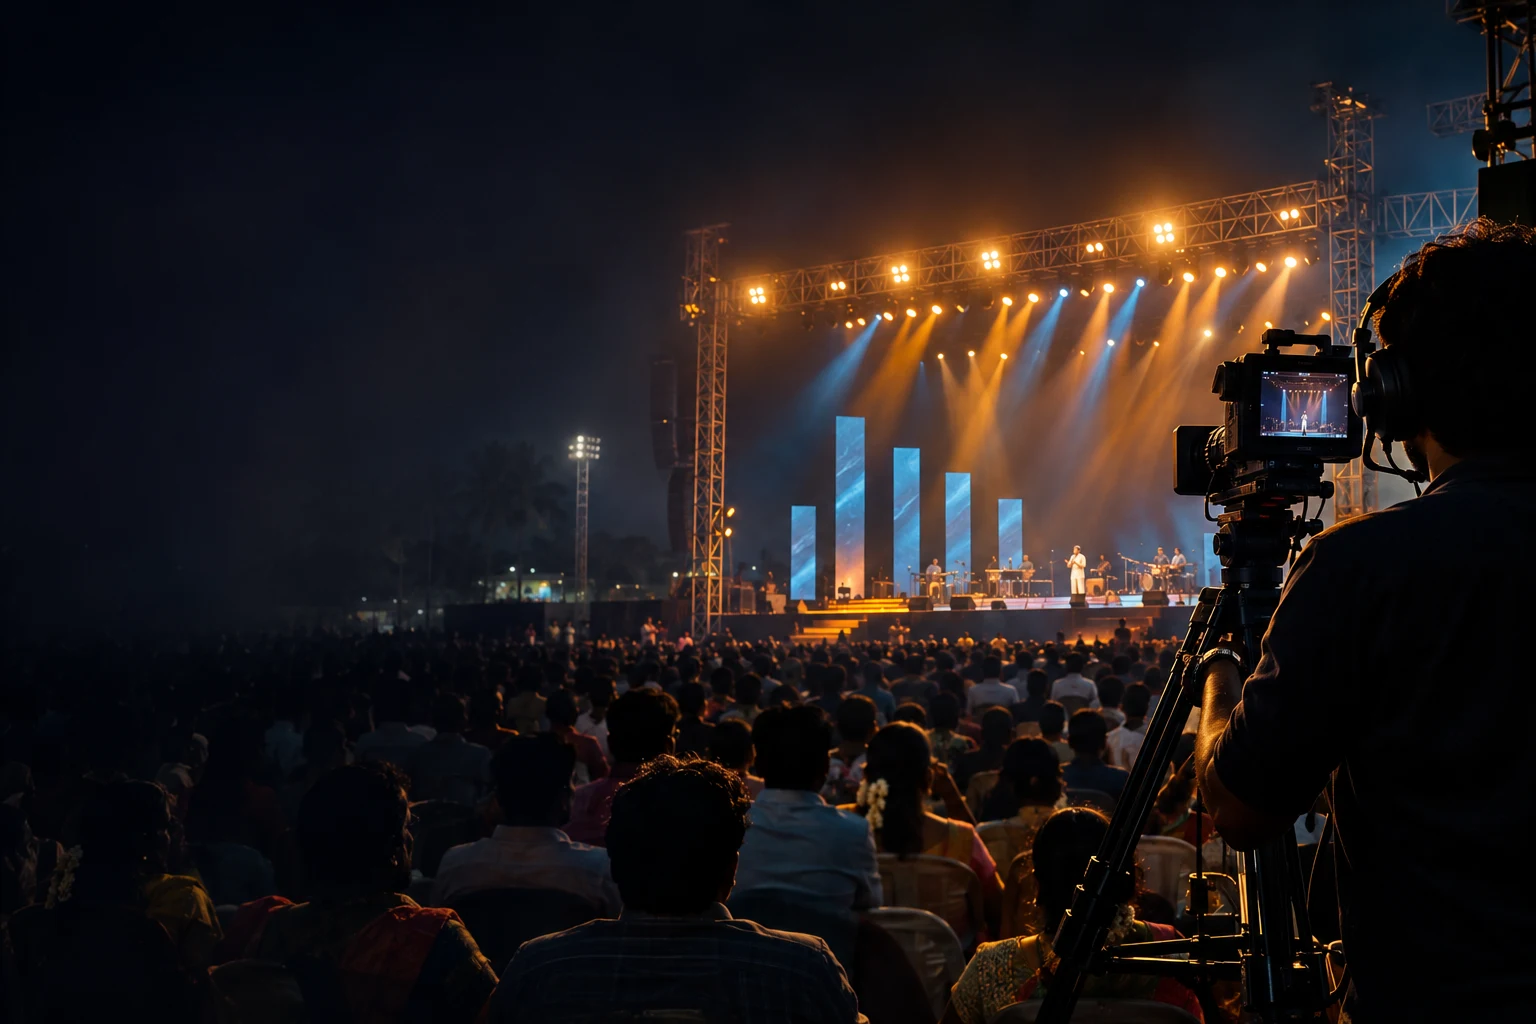
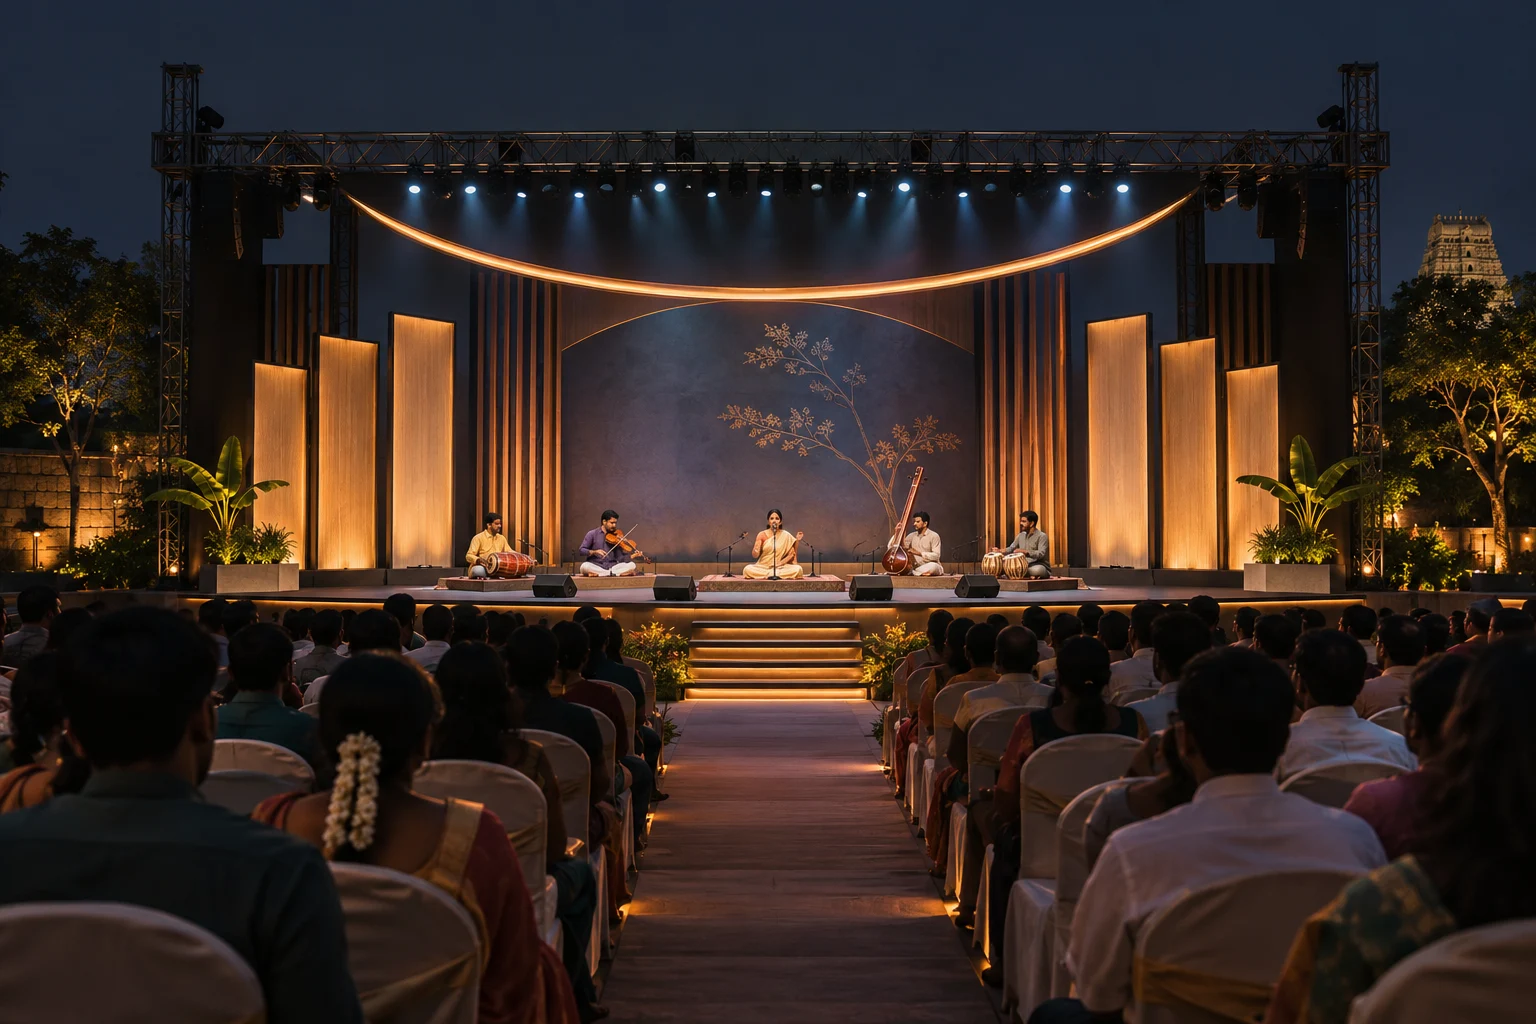
Make homepage redesign visible with a full-width hero

diff --git a/src/styles/hero.css b/src/styles/hero.css
@@ -1,17 +1,16 @@
-.hero { background: var(--surface-muted); border-bottom: 1px solid var(--border); }
-.hero-layout { display: grid; gap: clamp(1.4rem, 3vw, 2.6rem); padding-block: clamp(2rem, 5vw, 4.75rem) 1.15rem; }
-.hero-copy { min-width: 0; }
-.hero h1 { max-width: 20ch; font-size: clamp(2.55rem, 5.4vw, 6.4rem); letter-spacing: -.06em; line-height: 1.02; text-wrap: balance; }
-.hero-location { margin-top: .6rem; color: var(--accent-text); font-size: .94rem; font-weight: 650; }
-.hero-description { max-width: 52ch; margin-top: .7rem; color: var(--text-muted); font-size: clamp(1rem, 1.35vw, 1.18rem); }
-.hero-actions { margin-top: 1.25rem; display: flex; flex-wrap: wrap; gap: .6rem; }
+.hero { background: var(--surface-card); border-bottom: 1px solid var(--border); }
+.hero-copy { padding-block: clamp(2.35rem, 5vw, 5.5rem) clamp(1.7rem, 3vw, 2.75rem); text-align: center; }
+.hero-location { margin-bottom: .75rem; color: var(--accent-text); font-size: .95rem; font-weight: 650; }
+.hero h1 { max-width: 24ch; margin-inline: auto; font-size: clamp(2.55rem, 6.45vw, 7.2rem); letter-spacing: -.065em; line-height: 1.02; text-wrap: balance; }
+.hero-description { max-width: 51ch; margin: .85rem auto 0; color: var(--text-muted); font-size: clamp(1rem, 1.5vw, 1.23rem); text-wrap: pretty; }
+.hero-actions { display: flex; flex-wrap: wrap; justify-content: center; gap: .6rem; margin-top: 1.2rem; }
 .hero-explore { border-color: var(--border); }
 .hero-explore:hover { border-color: var(--accent-text); }
 .hero-visual { min-width: 0; }
-.hero-media { position: relative; overflow: hidden; isolation: isolate; height: clamp(15rem, 40vw, 38rem); border-radius: var(--radius-lg); background: var(--inverse-panel); }
-.hero-media img { position: absolute; inset: 0; width: 100%; height: 100%; object-fit: cover; object-position: 60% 52%; opacity: 0; transition: opacity var(--medium) var(--ease-out); }
+.hero-media { position: relative; overflow: hidden; isolation: isolate; height: clamp(15.5rem, 34vw, 38rem); background: var(--inverse-panel); }
+.hero-media img { position: absolute; inset: 0; width: 100%; height: 100%; object-fit: cover; object-position: center 55%; opacity: 0; transition: opacity var(--medium) var(--ease-out); }
 .hero-media img.current-scene { opacity: 1; }
-.hero-reel { display: flex; flex-wrap: wrap; justify-content: space-between; align-items: center; gap: .15rem 1rem; margin-top: .35rem; }
+.hero-reel { display: flex; flex-wrap: wrap; justify-content: space-between; align-items: center; gap: .15rem 1rem; min-height: 3.1rem; padding-block: .25rem; }
 .showcase-scenes { display: flex; flex-wrap: wrap; column-gap: clamp(.8rem, 2.4vw, 1.6rem); }
 .showcase-scenes button { min-height: 2.75rem; padding: .25rem 0; border: 0; border-bottom: 2px solid var(--transparent); background: var(--transparent); color: var(--text-muted); font-size: .875rem; font-weight: 650; }
 .showcase-scenes button[aria-pressed='true'] { color: var(--text); border-bottom-color: var(--accent-text); }
@@ -19,6 +18,7 @@
 .image-credit { color: var(--text-muted); font-size: .875rem; }
 
 @media (max-width: 450px) {
-  .hero h1 { font-size: clamp(2.3rem, 9.5vw, 2.75rem); }
-  .hero-media { height: clamp(12rem, 58vw, 16rem); }
+  .hero h1 { font-size: clamp(2.3rem, 11vw, 3.1rem); }
+  .hero-media { height: clamp(12rem, 56vw, 16rem); }
+  .hero-reel { padding-bottom: .55rem; }
 }

diff --git a/src/components/Hero.jsx b/src/components/Hero.jsx
@@ -3,7 +3,7 @@ import { ArrowUpRight, Play } from 'lucide-react';
 import { studio } from '../content.js';
 
 const scenes = [
-  { id: 'live', label: 'Live production', image: '/media/production.webp', alt: 'Illustration of a live stage being filmed at an evening event' },
+  { id: 'live', label: 'Live production', image: '/media/production.webp', alt: 'Illustration of an audience facing an amber-lit event stage' },
   { id: 'wedding', label: 'Weddings', image: '/media/wedding.webp', alt: 'Illustration of a South Indian wedding reception' },
   { id: 'studio', label: 'Studio', image: '/media/studio.webp', alt: 'Illustration of a professional camera on a studio set' },
 ];
@@ -19,11 +19,11 @@ export default function Hero({ onBook }) {
 
   return (
     <section className="hero" aria-labelledby="hero-title">
-      <div className="container hero-layout">
-        <div className="hero-copy">
-          <h1 id="hero-title">Wedding films and live event production</h1>
-          <p className="hero-location">Bhimavaram, Andhra Pradesh</p>
-          <p className="hero-description">Photography, LED screens, JBL sound, and livestreaming for weddings, church events, and stage shows.</p>
+      <div className="hero-layout">
+        <div className="container hero-copy">
+          <p className="hero-location">Event production in Bhimavaram</p>
+          <h1 id="hero-title">Wedding films. Live events.</h1>
+          <p className="hero-description">Photography, LED screens, JBL sound, and livestreaming for weddings, church gatherings, and stage shows.</p>
           <div className="hero-actions">
             <button className="button button-primary" type="button" onClick={() => onBook()}>{studio.quoteAction} <ArrowUpRight aria-hidden="true" size={19} /></button>
             <a className="button hero-explore" href="#films">Watch real event films <Play aria-hidden="true" size={17} /></a>
@@ -37,7 +37,7 @@ export default function Hero({ onBook }) {
                 width="1536" height="1024" />
             ))}
           </div>
-          <div className="hero-reel">
+          <div className="container hero-reel">
             <div className="showcase-scenes" role="group" aria-label="Preview event and studio coverage">
               {scenes.map(({ id, label }) => (
                 <button key={id} type="button" aria-pressed={id === active} aria-controls="showcase-frame" onClick={() => showScene(id)}>

diff --git a/src/styles/home.css b/src/styles/home.css
@@ -77,8 +77,8 @@
 .films + #services { padding-block-start: clamp(1.5rem, 2.5vw, 2.75rem); }
 
 .film-list { list-style: none; margin: 0; padding: 0; border-top: 1px solid var(--border); }
-.film-list li { border-bottom: 1px solid var(--border); }
-.film-list a { display: grid; grid-template-columns: auto minmax(0, 1fr) auto; align-items: center; gap: clamp(.7rem, 2vw, 1.55rem); padding: 1rem .25rem; }
+.film-list li { display: flex; border-bottom: 1px solid var(--border); }
+.film-list a { flex: 1; display: grid; grid-template-columns: auto minmax(0, 1fr) auto; align-items: center; gap: clamp(.7rem, 2vw, 1.55rem); padding: 1rem .25rem; }
 .film-list a:hover strong { color: var(--accent-text); }
 .film-icon { display: grid; place-items: center; width: 3rem; height: 3rem; border-radius: var(--radius-pill); color: var(--accent-text); }
 .film-list small, .film-list strong, .film-description { display: block; }
@@ -93,9 +93,11 @@
 
 .film-list a:focus-visible { outline-offset: 0; }
 @media (min-width: 960px) {
-  .film-list { display: grid; grid-template-columns: repeat(3, minmax(0, 1fr)); gap: .75rem; border-top: 0; }
-  .film-list li { display: flex; border: 0; border-top: 1px solid var(--border); }
-  .film-list a { flex: 1; grid-template-columns: minmax(0, 1fr); grid-template-rows: auto 1fr auto; align-items: start; padding: 1rem .2rem; gap: .65rem; }
-  .film-icon { width: 2rem; height: 2rem; justify-items: start; }
-  .film-platform { grid-column: 1; }
+  .film-list { display: grid; grid-template-columns: minmax(0, 1.25fr) minmax(0, 1fr); gap: 0 1.6rem; border-top: 0; }
+  .film-list li { border: 0; border-top: 1px solid var(--border); }
+  .film-list li:first-child { grid-row: span 2; background: var(--surface-muted); border: 0; border-radius: var(--radius-lg); }
+  .film-list li:first-child a { grid-template-columns: minmax(0, 1fr); grid-template-rows: auto 1fr auto; padding: clamp(1.15rem, 2.6vw, 2.8rem); gap: .75rem; }
+  .film-list li:first-child strong { font-size: clamp(1.6rem, 3.4vw, 3.6rem); letter-spacing: -.04em; }
+  .film-list li:first-child .film-platform { grid-column: 1; }
+  .film-list li:first-child .film-icon { justify-items: start; width: 2.4rem; height: 2.4rem; }
 }
